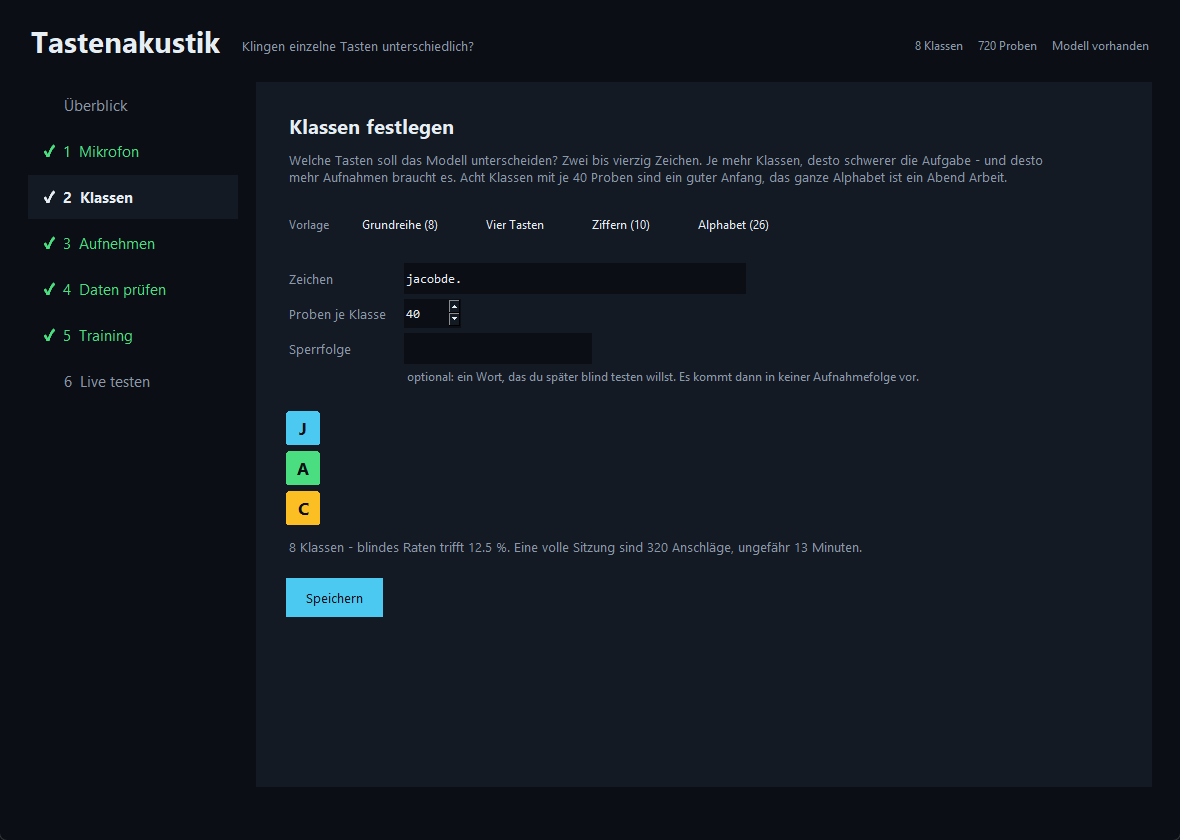
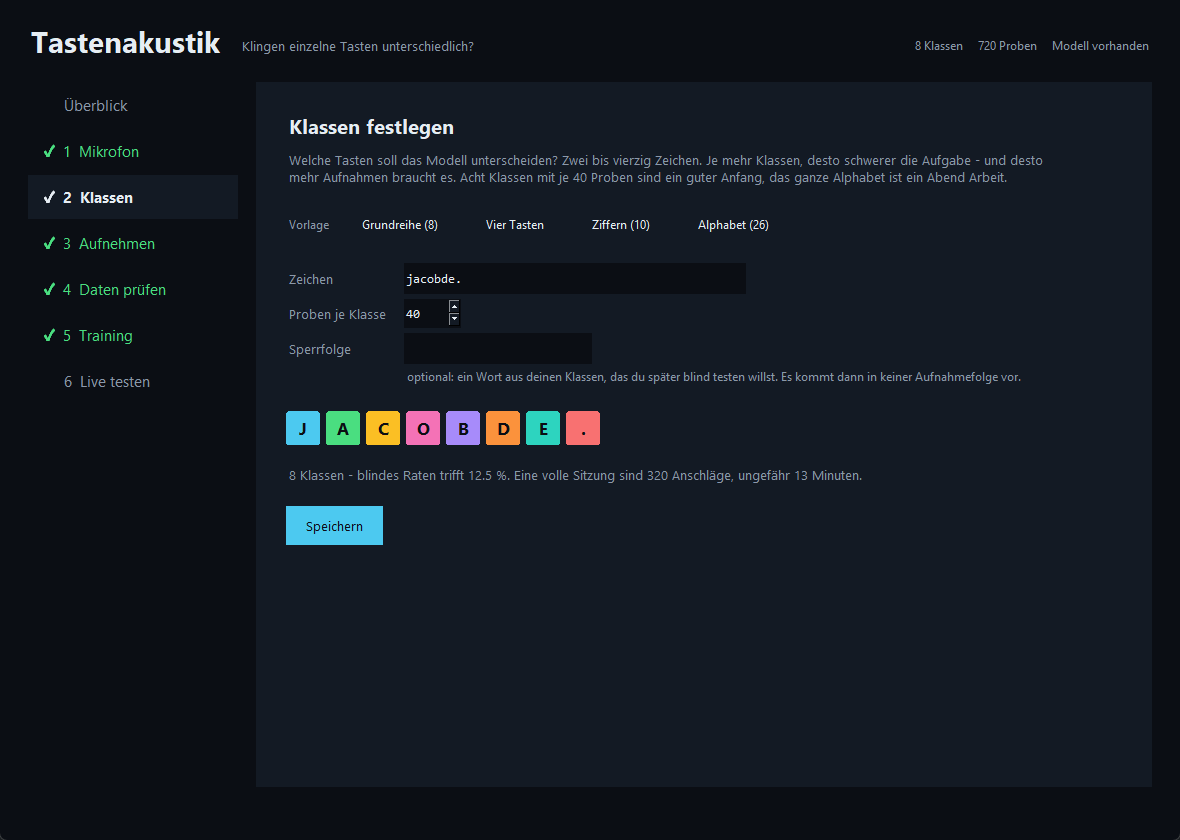
README: Installation fuer PowerShell/Linux, Messwerte praezisiert
- Windows ohne Aktivieren der venv (scheiterte in PowerShell), Linux mit
  Systempaketen und torch-CPU, Hinweis auf lange Pfade
- Referenzmessung: nur Belegtes - fluessiges Tippen als Beobachtung
  gekennzeichnet, Abstand zur Testsitzung korrigiert, B landet bei C und D,
  rund zwei Sekunden zwischen den Anschlaegen
- neue Funktionen beschrieben (Abbrechen, Liste neu einlesen, Mikrofon am
  Namen, Demo-Optionen), Datenschutz-Liste genauer, Ordnerstruktur ergaenzt
- Studio-Screenshots neu aufgenommen

Changed region(s): [[0.2441, 0.4333, 0.8542, 0.7429], [0.4271, 0.65, 0.7322, 0.681]]

diff --git a/README.md b/README.md
@@ -41,8 +41,8 @@ Netz, und am Ende steht eine Zahl, die du selbst gemessen hast.
 ## Was dabei herauskam
 
 Meine Referenzmessung, damit du weißt, worauf du dich einlässt. Acht Klassen
-(`J A C O B D E .`), ein Kondensatormikrofon rund 30 cm neben der Tastatur,
-fünf Aufnahmesitzungen an einem Tag.
+(`J A C O B D E .`), ein Kondensatormikrofon, fünf Aufnahmesitzungen an einem
+Tag.
 
 <p align="center">
   <img src="docs/bilder/acht_tasten.png" width="31%" alt="Die acht Tasten">
@@ -59,7 +59,7 @@ fünf Aufnahmesitzungen an einem Tag.
 | Zufall | 12,5 % |
 | **Beste Validierung** | **99,2 %** |
 | **Test, ungesehene Sitzung** | **88,3 %** |
-| Live getippt, flüssig | nahe Zufall |
+| Live getippt | langsam: `jacob.decoded` zweimal fehlerfrei · flüssig: deutlich schlechter (beobachtet, nicht protokolliert) |
 
 <p align="center">
   <img src="docs/bilder/trainingsverlauf.png" width="31%" alt="Trainingsverlauf">
@@ -73,21 +73,26 @@ Die drei Zahlen zusammen sind die eigentliche Geschichte:
 derselben Haltung, im selben Raumklang. Das Modell erkennt da zu einem guten
 Teil den Nachmittag wieder, nicht nur die Taste.
 
-**88,3 % sind die ehrliche Zahl.** Die Testsitzung lag rund 37 Minuten nach dem
-Training und war beim Trainieren nie sichtbar. Der Abstand zu 99,2 % – etwa elf
+**88,3 % sind die ehrliche Zahl.** Die Testsitzung begann rund eine halbe
+Stunde nach dem Training (gut 40 Minuten nach der letzten Trainingsaufnahme)
+und war beim Trainieren nie sichtbar. Der Abstand zu 99,2 % – etwa elf
 Prozentpunkte – ist der Preis dafür, dass sich in einer guten halben Stunde
 Handhaltung, Sitzposition und Raum leicht verschieben. Wer an einem anderen Tag
-testet, wird noch etwas mehr verlieren.
+testet, verliert vermutlich noch mehr – gemessen habe ich das noch nicht.
 
-**Flüssiges Tippen scheitert.** Wenn ich ein Wort normal schnell tippe, fällt
-die Trefferquote auf Zufallsniveau. Das Modell hat nie gelernt, wie Tippen
-klingt: In den Trainingsdaten lag rund eine Sekunde zwischen zwei Anschlägen,
-jeder einzeln und sauber freistehend. Beim echten Tippen überlappen Anschlag,
-Loslassen und der nächste Anschlag.
+**Flüssiges Tippen scheitert.** Langsam getippt, mit einer Pause zwischen den
+Tasten, kam in der Live-Demo `jacob.decoded` zweimal fehlerfrei heraus. Beim
+Dreh habe ich das Wort auch normal schnell getippt – da ging die Erkennung
+deutlich in den Keller. Eine Quote dafür habe ich nicht protokolliert, deshalb
+steht hier keine Zahl. Der Grund ist klar: Das Modell hat nie gelernt, wie
+Tippen klingt. In den Trainingsdaten lagen rund zwei Sekunden zwischen zwei
+Anschlägen, jeder einzeln und sauber freistehend. Beim echten Tippen
+überlappen Anschlag, Loslassen und der nächste Anschlag.
 
 Einzelne Klassen im Test: `A` und `D` 100 %, `C`, `O` und `E` je 93 %, `.` 87 %,
 `J` 80 %, `B` 60 %. Das `B` liegt auf meiner Tastatur in der untersten Reihe
-nahe der Gehäusekante und klingt dumpfer – es wandert regelmäßig zum `E`.
+nahe der Gehäusekante und klingt dumpfer – es landet je dreimal beim `C` und
+beim `D`. Das `J` geht dreimal an das `D`.
 
 Kurz: Der Effekt ist real und deutlich messbar. Ein Passwortknacker ist er nicht.
 
@@ -104,20 +109,25 @@ Werkzeug, um Passwörter zu rekonstruieren oder mitzulesen, was jemand schreibt.
 
 Das sind nicht nur gute Vorsätze, das steckt in der Bauweise:
 
-* **Aufgenommen wird nur im ausdrücklich gestarteten Aufnahmemodus.** Läuft er
-  nicht, hört das Programm nichts mit.
+* **Das Mikrofon ist nur offen, solange du ein Werkzeug ausdrücklich gestartet
+  hast** – Aufnahmemodus, Pegelanzeige, Mithören-Test oder Live-Demo. Ohne
+  gestartetes Werkzeug hört das Programm nichts mit.
 * **Tastendrücke kommen aus dem Fensterereignis des Collectors**, nicht aus
   einem globalen Hook. Ist sein Fenster nicht im Vordergrund, pausiert die
   Aufnahme von selbst.
 * **Gespeichert wird nur das kurze Fenster um einen angekündigten Anschlag.**
-  Das Programm sagt dir die Taste an; drückst du eine andere, wird nichts
-  gespeichert, nichts gezählt, nichts protokolliert.
+  Das Programm sagt dir die Taste an. Drückst du eine andere deiner Klassen,
+  wird nichts gespeichert – nur ein Fehlerzähler geht hoch, und die
+  Statuszeile meldet es kurz. Tasten außerhalb deiner Klassen werden weder
+  gezählt noch angezeigt noch gespeichert. Einzige Ausnahme vom Speichern:
+  `08_demo.py --mitschnitt` (standardmäßig aus, vom Studio nie gesetzt) legt
+  zur Fehlersuche jedes erkannte Segment unter `daten/demo_mitschnitt/` ab.
 * **Das Modell kann nichts anderes ausgeben als deine Klassen.** Die letzte
   Schicht hat genau so viele Ausgänge, wie du Zeichen festgelegt hast. Das ist
   keine Einstellung, das ist die Form des Netzes.
 * **Die Live-Demo liest überhaupt keine Tastatur-Ereignisse.** Sie findet
-  Anschläge allein im Audiosignal. Es gibt in diesem Programm keine Stelle, an
-  der die tatsächlich gedrückte Taste bekannt wäre.
+  Anschläge allein im Audiosignal und wird nur mit der Maus bedient. Es gibt in
+  ihr keine Stelle, an der die tatsächlich gedrückte Taste bekannt wäre.
 * **Freies Text-Decoding ist nicht implementiert.** Das Modell kennt einzelne
   Anschläge, keine Wörter und keine Sprache.
 
@@ -129,68 +139,83 @@ vielerorts auch nicht legal.
 
 ## Installation
 
-Gebraucht wird Python 3.10 oder neuer und ein Mikrofon.
+Gebraucht wird Python 3.10 oder neuer und ein Mikrofon. Getestet ist das
+Projekt mit Python 3.12 unter Windows 11. Die Abhängigkeiten laden knapp 1 GB
+herunter (vor allem torch), die Installation dauert ein paar Minuten.
 
 ```bash
 git clone https://github.com/JacobMenge/keysound-ai.git
 cd keysound-ai
-python -m venv .venv
 ```
 
-Umgebung aktivieren – Windows:
+**Windows** – in PowerShell oder der Eingabeaufforderung, ohne die Umgebung zu
+aktivieren (das scheitert in PowerShell oft an der Ausführungsrichtlinie):
+
+```powershell
+py -m venv .venv
+.venv\Scripts\python -m pip install -r requirements.txt
+.venv\Scripts\python werkzeuge\09_selbsttest.py
+```
+
+Gibt es `py` nicht, geht auch `python -m venv .venv`. Danach startest du das
+Programm per Doppelklick auf `start.bat` – das nimmt automatisch die `.venv`.
+Klone am besten in einen kurzen Pfad wie `C:\keysound-ai`, siehe
+[Wenn etwas nicht klappt](#wenn-etwas-nicht-klappt).
+
+**Linux** – erst die Systempakete für Mikrofon und Fenster, dann torch als
+CPU-Version (sonst holt pip das mehrere GB große CUDA-Paket), dann den Rest:
 
 ```bash
-.venv\Scripts\activate
+sudo apt install libportaudio2 python3-tk     # Fedora: sudo dnf install portaudio python3-tkinter
+python3 -m venv .venv
+.venv/bin/python -m pip install torch --index-url https://download.pytorch.org/whl/cpu
+.venv/bin/python -m pip install -r requirements.txt
+.venv/bin/python werkzeuge/09_selbsttest.py
 ```
 
-macOS und Linux:
+**macOS** – wie Linux, nur ohne `apt` und ohne den torch-Sonderweg. Mit
+Homebrew-Python fehlt manchmal Tk: `brew install python-tk`. Linux und macOS
+sind nicht auf echter Hardware getestet.
 
-```bash
-source .venv/bin/activate
-```
-
-Dann die Abhängigkeiten:
-
-```bash
-pip install -r requirements.txt
-```
-
-Ob alles sitzt, sagt dir der Selbsttest. Er braucht kein Mikrofon, erzeugt
-künstliche Anschläge, trainiert damit kurz und rendert jede Grafik:
-
-```bash
-python werkzeuge/09_selbsttest.py
-```
-
-Läuft der durch, läuft auch der Rest.
+Der Selbsttest braucht kein Mikrofon. Er prüft, ob Tk und PortAudio laden,
+erzeugt künstliche Anschläge, trainiert damit kurz, wertet eine Testsitzung
+aus und rendert jede Grafik. Läuft er durch, stimmen Installation und Rechnung
+– ob dein Mikrofon ankommt, zeigt dir Schritt 1 im Studio.
 
 ---
 
 ## So arbeitest du damit
 
+Windows: Doppelklick auf `start.bat` (nimmt die `.venv` im Projektordner und
+lässt das Fenster bei einem Fehler offen). Linux und macOS:
+
 ```bash
-python start.py
+.venv/bin/python start.py
 ```
 
-Unter Windows tut es auch ein Doppelklick auf `start.bat` – das nimmt die
-`.venv` im Projektordner, falls es eine gibt, und lässt das Fenster bei einem
-Fehler offen stehen.
-
-Ein Fenster, sechs Schritte. Jeder sagt dir, was er braucht, und schaltet den
-nächsten frei; erledigte Schritte bekommen links einen grünen Haken.
+Ein Fenster, sechs Schritte. Jeder sagt dir, was er braucht; erledigte
+Schritte bekommen links einen grünen Haken. Passt das Fenster nicht ganz auf
+deinen Bildschirm, lässt sich der Inhalt scrollen.
 
 > Startet gar nichts, sondern kommt eine Meldung über fehlende Pakete: Dann
 > läuft ein anderes Python als das, in dem du installiert hast. Die Meldung
-> nennt beides – den Interpreter und die vier Zeilen, mit denen du eine eigene
-> Umgebung anlegst.
+> nennt den Interpreter und die Befehle, mit denen du eine eigene Umgebung
+> anlegst.
 
 ### 1 · Mikrofon
 
 Wähle deinen Eingang. Der Knopf *2 Sekunden mithören* misst Spitzenpegel und
 Rauschboden, während du ein paar Mal tippst. Über 25 dB Abstand ist gut, unter
 15 dB wird es schwierig. Näher ran hilft am meisten. Unter Windows taucht
-dasselbe Gerät mehrfach auf (WASAPI, WDM-KS, …) – im Zweifel **WDM-KS**
-nehmen, siehe [Wenn etwas nicht klappt](#wenn-etwas-nicht-klappt).
+dasselbe Gerät mehrfach auf (WASAPI, WDM-KS, …) – vorgeschlagen wird **WDM-KS**,
+siehe [Wenn etwas nicht klappt](#wenn-etwas-nicht-klappt). Hast du ein Gerät
+erst nach dem Start eingesteckt, holt *Liste neu einlesen* es dazu.
+*Pegel im Vollbild* öffnet die Pegelanzeige für das markierte Gerät.
+
+Gemerkt wird das Mikrofon über Name und Treiberart, nicht über seine
+Listennummer. Steckst du USB-Geräte um, verschiebt sich die Nummer – das
+Programm findet dein Mikrofon trotzdem wieder oder sagt klar, dass es fehlt,
+statt still über ein anderes aufzunehmen.
 
 <p align="center"><img src="docs/bilder/studio_1_mikrofon.png" width="760" alt="Schritt 1: Mikrofon wählen"></p>
 
@@ -206,7 +231,8 @@ stellst du ein, wie viele Proben du je Klasse aufnehmen willst.
 ### 3 · Aufnehmen
 
 Der Collector geht im Hochformat auf, sagt dir eine Taste an, du drückst sie.
-Das dauert. Nimm mindestens drei Sitzungen auf und gib ihnen danach Rollen:
+Das dauert. Proben je Klasse sind 5 bis 200. Nimm mindestens drei Sitzungen
+auf und gib ihnen danach Rollen (die neueste Sitzung steht oben):
 `train` zum Lernen, `val` zum Mitprüfen, `test` für die ehrliche Zahl. **Die
 Testsitzung nimmst du am besten an einem anderen Tag auf** – nur dann misst sie
 wirklich die Taste und nicht den Raum von heute Nachmittag.
@@ -215,25 +241,30 @@ wirklich die Taste und nicht den Raum von heute Nachmittag.
 
 ### 4 · Daten prüfen
 
-Sind die Aufnahmen brauchbar? *Prüfen* checkt Pegel, Abstand zum Rauschen,
-Übersteuerung und ob eine Rauschunterdrückung dazwischengefunkt hat.
+Sind die Aufnahmen brauchbar? *Prüfen* checkt die ausgewählte Sitzung auf
+Pegel, Abstand zum Rauschen, Übersteuerung und ob eine Rauschunterdrückung
+dazwischengefunkt hat.
 *Trennbarkeit messen* verrät dir schon vor dem Training, ob überhaupt Struktur
 in den Daten steckt – ganz ohne neuronales Netz, mit einem einfachen
-Nächster-Schwerpunkt-Test.
+Nächster-Schwerpunkt-Test (angelernt an `train`, geprüft an `val`; die
+Testsitzung bleibt unberührt).
 
 <p align="center"><img src="docs/bilder/studio_4_pruefen.png" width="760" alt="Schritt 4: Trennbarkeit messen"></p>
 
 ### 5 · Training
 
 Epochenzahl wählen, starten, zusehen. Fehler und Trefferquote wachsen live
-mit, die gestrichelte Linie ist das Zufallsniveau. Am Ende stehen die beste
-Validierung, die schwächsten Klassen und der Pfad zum Modell. Auf Wunsch
-fallen alle Grafiken im Hochformat (1080 × 1920) heraus.
+mit, die gestrichelte Linie ist das Zufallsniveau. *Abbrechen* stoppt nach der
+laufenden Epoche, ohne ein halbes Modell zu speichern. Am Ende stehen die beste
+Validierung, die schwächsten Klassen und der Pfad zum Modell. Während ein
+Training läuft, lassen sich die Klassen nicht umstellen.
 
 *Auf Testsitzung prüfen* holt dann die ehrliche Zahl: Das fertige Modell wird
 gegen deine `test`-Sitzung gerechnet, die weder beim Lernen noch bei der Wahl
 des besten Stands mitgespielt hat. Das Ergebnis landet zusätzlich in
-`daten/modelle/test_ergebnis.json`.
+`daten/modelle/test_ergebnis.json`. *Grafiken im Hochformat speichern* legt
+Trainingsverlauf und Verwechslungsmatrix als 1080 × 1920 ab – nach einer
+Testauswertung auch die Matrix der Testsitzung.
 
 <p align="center"><img src="docs/bilder/studio_5_training_fertig.png" width="760" alt="Schritt 5: Training mit Live-Kurve"></p>
 
@@ -276,14 +307,17 @@ ab dem Tastendruck.
 **3 · Qualität prüfen.** Zu leise, übersteuert, oder mehr als ein Anschlag im
 Fenster – dann fliegt die Probe raus, bevor sie gespeichert wird.
 
-**4 · Log-Mel-Spektrogramm.** 250 ms ab 15 ms vor dem Onset werden in 64
-Mel-Bänder zwischen 100 Hz und 16 kHz umgerechnet. Aus dem Geräusch wird ein
+**4 · Log-Mel-Spektrogramm.** 250 ms ab 15 ms vor dem Onset (einstellbar in
+`config.json`) werden in 64 Mel-Bänder zwischen 100 Hz und 16 kHz umgerechnet.
+Das Modell speichert Schnitt, Abtastrate und Mel-Einstellungen mit, damit Test
+und Live-Demo später genau so rechnen wie das Training. Aus dem Geräusch wird ein
 Bild. Jede Probe wird auf eigenen Mittelwert und eigene Streuung normiert –
 damit fällt die Lautstärke heraus und mit ihr die Frage, wie fest jemand
 gerade gedrückt hat. Übrig bleibt die Klangfarbe.
 
 **5 · Ein kleines CNN.** Drei Faltungsblöcke (16/32/64 Kanäle) mit
-Batch-Normalisierung und Max-Pooling, danach ein Mittelwert über die Zeit,
+Batch-Normalisierung und Max-Pooling, danach ein Mittelwert über die ganze
+Merkmalskarte (Zeit und Frequenz),
 Dropout und eine lineare Schicht auf so viele Ausgänge, wie du Klassen hast.
 Rund 24 000 Parameter bei acht Klassen. Bewusst klein: Ein paar hundert
 Trainingsproben sind wenig, ein großes Netz würde sie schlicht auswendig
@@ -313,11 +347,11 @@ genauer steuern will, findet dieselben Schritte als einzelne Programme:
 | `werkzeuge/04_sitzungen.py` | Sitzungen auflisten, Rollen vergeben |
 | `werkzeuge/05_daten_pruefen.py` | Qualitätsprüfung einer Sitzung |
 | `werkzeuge/06_trennbarkeit.py` | Nächster-Schwerpunkt-Test – Struktur in den Daten, ganz ohne Lernen |
-| `werkzeuge/07_training.py` | Training auf der Kommandozeile, mit `--test` die Auswertung auf der Testsitzung |
-| `werkzeuge/08_demo.py` | Live-Demo, rein aus dem Audiosignal |
+| `werkzeuge/07_training.py` | Training auf der Kommandozeile, mit `--test` die Auswertung auf der Testsitzung samt Grafik |
+| `werkzeuge/08_demo.py` | Live-Demo, rein aus dem Audiosignal – `--abstand`, `--schwelle`, `--geraet`, `--soll`, `--buehne`, `--mitschnitt` |
 | `werkzeuge/09_selbsttest.py` | Installation und Pipeline prüfen, ohne Mikrofon |
 | `werkzeuge/90_layoutvorschau.py` | Alle Grafiken mit Beispieldaten rendern |
-| `werkzeuge/91_animationen.py` | Szenen als MP4 oder Bildfolge (braucht ffmpeg) |
+| `werkzeuge/91_animationen.py` | Szenen als MP4 (mit ffmpeg) oder PNG-Bildfolge (ohne) |
 
 Jedes Werkzeug erklärt sich selbst mit `--help`.
 
@@ -334,8 +368,9 @@ Ein paar Dinge, die dabei helfen:
 
 * **Fang klein an.** Vier Tasten sind in zwanzig Minuten aufgenommen und
   beantworten die Frage schon. Das Alphabet ist ein Abend.
-* **Nimm Tasten, die weit auseinanderliegen.** `Q`, `T`, `M` und `Ö` sind
-  leichter zu trennen als `A`, `S`, `D` und `F`.
+* **Nimm Tasten, die weit auseinanderliegen.** `Q`, `T`, `M` und `Ö` lassen
+  sich vermutlich leichter trennen als `A`, `S`, `D` und `F` – gemessen habe
+  ich das nicht.
 * **Rechne mit dem Zufallsniveau.** Bei 26 Klassen trifft blindes Raten 3,8 %.
   Was nach wenig aussieht, kann trotzdem ein Vielfaches davon sein – das
   Programm rechnet dir den Faktor überall mit aus.
@@ -374,18 +409,42 @@ Mikrofon stummgeschaltet? Hängt das Interface am richtigen USB-Anschluss? Bei
 mir war der RØDECaster an USB 2 statt USB 1 gesteckt und lieferte deshalb
 Stille.
 
+**Das Mikrofon wird nicht gefunden.** Gemerkt wird es über Name und
+Treiberart. Ist es abgezogen oder heißt nach einem Treiber-Update anders, sagt
+das Programm das deutlich – dann in Schritt 1 *Liste neu einlesen* und das Gerät
+neu übernehmen.
+
 **Doppelte Buchstaben in der Live-Demo.** Ein Tastendruck macht zwei Geräusche:
 das Anschlagen und das Loslassen, je nach Haltedauer 80 bis 250 ms auseinander.
 Die Demo hält deshalb 300 ms Sperrzeit zwischen zwei Anschlägen ein. Wird bei
-dir trotzdem doppelt gezählt, dreh `--abstand` hoch.
+dir trotzdem doppelt gezählt, starte die Demo von der Kommandozeile mit höherer
+Sperrzeit (im Studio nicht einstellbar):
+
+```bash
+python werkzeuge/08_demo.py --abstand 400
+```
 
 **Die Live-Demo erkennt fast nichts, das Training sah gut aus.** Tipp
 langsamer, mit deutlicher Pause. Das Modell hat nur einzeln stehende Anschläge
 gesehen. Wenn du flüssiges Tippen erkennen willst, musst du flüssiges Tippen
-aufnehmen – das ist ein anderes, deutlich schwierigeres Experiment.
+aufnehmen – das ist ein anderes, deutlich schwierigeres Experiment. Sehr leise
+Anschläge überhört die Demo absichtlich; waren schon deine Aufnahmen leise,
+senkt sie die Schwelle selbst etwas. Von Hand geht das mit `--schwelle -40`.
+Nimmt dein Mikrofon eine andere Abtastrate als beim Training, fordert die Demo
+die Rate des Modells an und rechnet sonst um – mit einem Hinweis.
 
 **Die Testsitzung ist viel schlechter als die Validierung.** Das ist kein
 Fehler, das ist das Ergebnis. Genau dieser Abstand ist die interessante Zahl.
+
+**pip bricht mit einer Meldung zu „Long Path“ ab.** Unter Windows sind Pfade
+ohne Zusatzeinstellung auf 260 Zeichen begrenzt, und torch bringt sehr lange
+Dateinamen mit. Lösch die halb installierte `.venv`, klon das Projekt in einen
+kurzen Ordner wie `C:\keysound-ai` und installier dort neu.
+
+**Eine Sitzung liegt doppelt vor.** Hast du einen Sitzungsordner im Explorer
+kopiert, tragen beide dieselbe Kennung. Damit nicht dieselbe Aufnahme in
+Training und Test landet, verweigern Rollenvergabe und Training dann die
+Arbeit – lösch die Kopie aus `daten/roh/`.
 
 ---
 
@@ -393,6 +452,9 @@ Fehler, das ist das Ergebnis. Genau dieser Abstand ist die interessante Zahl.
 
 ```
 start.py                  Das Programm. Hier geht es los.
+start.bat                 Doppelklick-Start unter Windows
+requirements.txt          Abhängigkeiten
+LICENSE                   MIT-Lizenz
 tastenakustik/            Die Bibliothek
   config.py               Klassen, Parameter, Verzeichnisse
   audio.py                Geräte und Ringpuffer
@@ -412,10 +474,13 @@ tastenakustik/            Die Bibliothek
 werkzeuge/                Die Einzelschritte als Kommandozeilenprogramme
 docs/bilder/              Bilder für dieses README
 daten/                    Deine Aufnahmen und Modelle (nicht im Repository)
+  roh/                    eine Sitzung je Ordner: session.json, proben.jsonl, WAVs
+  modelle/                trainierte Modelle, Verlauf, Testergebnis
 ausgabe/                  Gerenderte Grafiken (nicht im Repository)
+config.json               Deine Einstellungen (nicht im Repository)
 ```
 
-`daten/` und `ausgabe/` stehen in der `.gitignore`. Deine Aufnahmen bleiben bei
+`daten/`, `ausgabe/` und `config.json` stehen in der `.gitignore`. Deine Aufnahmen bleiben bei
 dir – auch wenn du das Repository forkst und weiterentwickelst.
 
 ---
